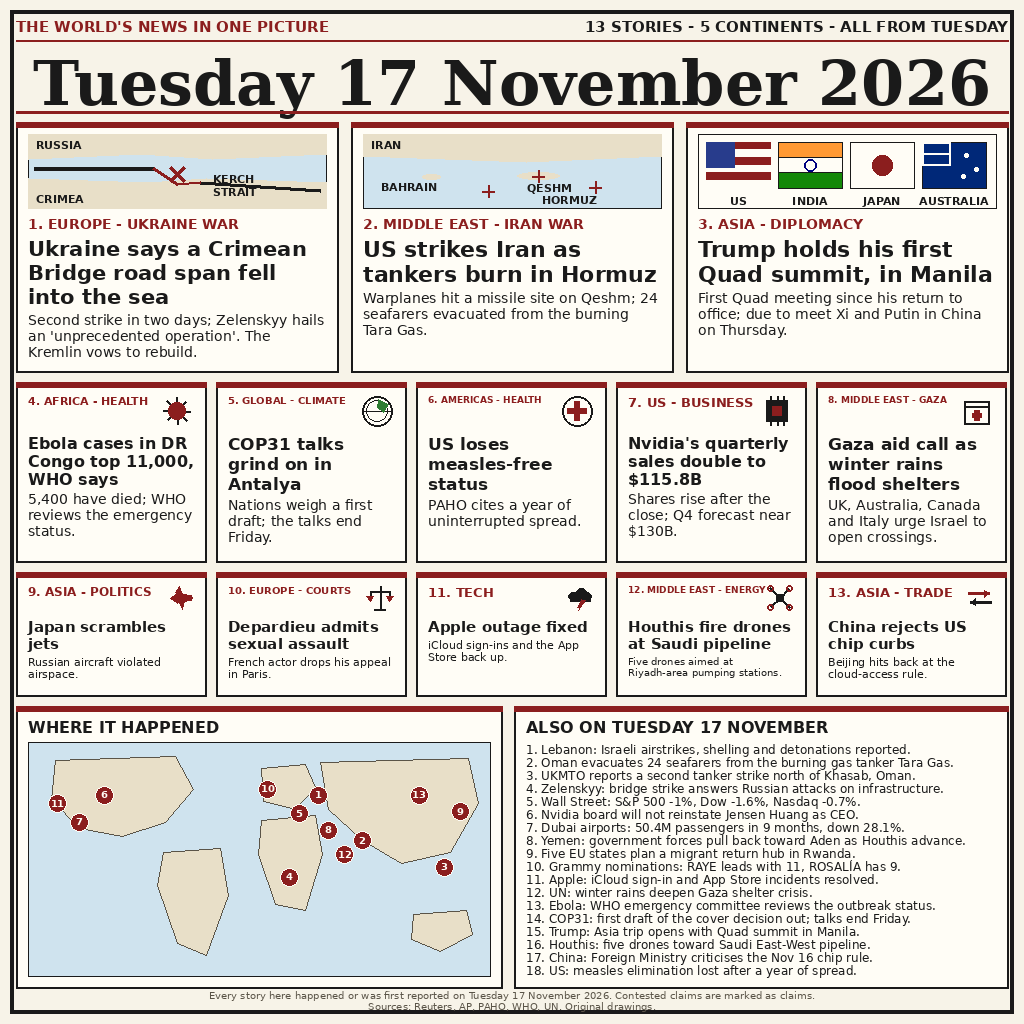
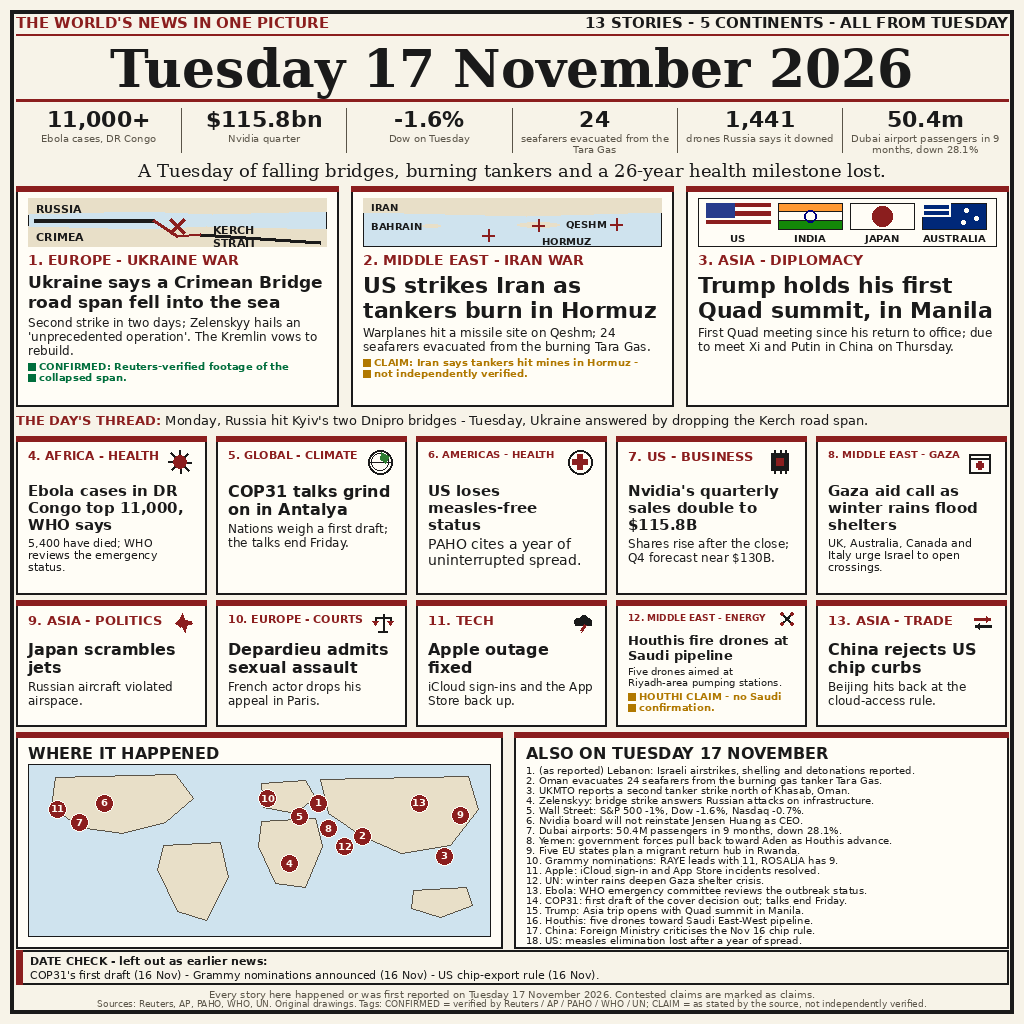
news-image-20261117 v3: verification layer - BY THE NUMBERS, WHY line, THREAD, CONFIRMED/CLAIM tags, DATE CHECK

diff --git a/make_image.py b/make_image.py
@@ -1,10 +1,15 @@
-"""Draw the dense v2 front page for news-image-20261117 (1024x1024 PNG).
+"""Draw the dense v3 front page for news-image-20261117 (1024x1024 PNG).
 
-Newspaper style: off-white paper, ink text, dark-red accent. 13 numbered
-stories plus a world map with pins and a list of one-liners, all from
-Tuesday 17 November 2026 as reported by Reuters, AP, PAHO, WHO and the UN.
-Every map, flag and icon is drawn with PIL shapes; no network, no external
-images. Text is never clipped: every block shrinks its font until it fits.
+v3 = v2 (13 numbered stories, world map with pins, 18 one-liners) plus a
+verification layer: a BY THE NUMBERS strip, a WHY THIS DAY MATTERS line,
+a THE DAY'S THREAD line, CONFIRMED / CLAIM tags on contested items, and a
+DATE CHECK box for items that belong to 16 November, not this day.
+
+Newspaper style: off-white paper, ink text, dark-red accent. All stories
+from Tuesday 17 November 2026 as reported by Reuters, AP, PAHO, WHO and
+the UN. Every map, flag and icon is drawn with PIL shapes; no network, no
+external images. Text is never clipped: every block shrinks its font
+until it fits.
 """
 
 from PIL import Image, ImageDraw, ImageFont
@@ -17,9 +22,12 @@ RED = (139, 30, 30)
 GREY = (90, 84, 72)
 SEA = (207, 227, 238)
 LAND = (232, 223, 200)
+TAG_GREEN = (0, 110, 60)
+TAG_AMBER = (176, 120, 0)
 
 FONT_DIR = "/usr/share/fonts/truetype/dejavu/"
 SERIF_B = FONT_DIR + "DejaVuSerif-Bold.ttf"
+SERIF = FONT_DIR + "DejaVuSerif.ttf"
 SANS_B = FONT_DIR + "DejaVuSans-Bold.ttf"
 SANS = FONT_DIR + "DejaVuSans.ttf"
 
@@ -230,21 +238,23 @@ def map_gulf(d, x, y, w, h):
               fill=LAND)
     d.ellipse([x + w * 0.2, y + h * 0.55, x + w * 0.26, y + h * 0.61],
               fill=LAND)
-    for sx, sy in ((0.59, 0.57), (0.42, 0.78), (0.78, 0.72)):
+    for sx, sy in ((0.59, 0.57), (0.42, 0.78), (0.85, 0.55)):
         cx, cy = x + w * sx, y + h * sy
         d.line([(cx - 6, cy), (cx + 6, cy)], fill=RED, width=2)
         d.line([(cx, cy - 6), (cx, cy + 6)], fill=RED, width=2)
-    f = fb(SANS_B, 11)
-    d.text((x + 8, y + 4), "IRAN", font=f, fill=INK)
-    d.text((x + w * 0.55, y + h * 0.64), "QESHM", font=f, fill=INK)
-    d.text((x + w * 0.06, y + h * 0.62), "BAHRAIN", font=f, fill=INK)
-    d.text((x + w * 0.6, y + h * 0.8), "HORMUZ", font=f, fill=INK)
+    f = fb(SANS_B, 10)
+    d.text((x + 8, y + 3), "IRAN", font=f, fill=INK)
+    d.text((x + 8, y + h * 0.45), "BAHRAIN", font=f, fill=INK)
+    # QESHM right of its island, HORMUZ bottom centre: the two labels
+    # must not stack on each other at this small map height.
+    d.text((x + w * 0.68, y + h * 0.42), "QESHM", font=f, fill=INK)
+    d.text((x + w * 0.60, y + h * 0.78), "HORMUZ", font=f, fill=INK)
 
 
 def map_quad(d, x, y, w, h):
     d.rectangle([x, y, x + w, y + h], fill=CARD, outline=INK, width=1)
-    fw, fh = (w - 40) // 4, 46
-    fy = y + 8
+    fw, fh = (w - 40) // 4, max(20, h - 22)
+    fy = y + 5
     xs = [x + 8 + i * (fw + 8) for i in range(4)]
     # US: stripes + canton
     d.rectangle([xs[0], fy, xs[0] + fw, fy + fh], outline=INK, width=1)
@@ -276,9 +286,9 @@ def map_quad(d, x, y, w, h):
     for sx, sy in ((0.7, 0.3), (0.85, 0.6), (0.65, 0.75)):
         d.ellipse([xs[3] + fw * sx - 2, fy + fh * sy - 2,
                    xs[3] + fw * sx + 2, fy + fh * sy + 2], fill=CARD)
-    f = fb(SANS_B, 11)
+    f = fb(SANS_B, 10)
     for i, name in enumerate(("US", "INDIA", "JAPAN", "AUSTRALIA")):
-        text_center(d, xs[i] + fw / 2, fy + fh + 6, name, f, INK)
+        text_center(d, xs[i] + fw / 2, fy + fh + 3, name, f, INK)
 
 
 # ---- schematic world map with numbered pins ----
@@ -360,8 +370,34 @@ SMALL = [
      "Beijing hits back at the cloud-access rule.", icon_trade),
 ]
 
+NUMBERS = [
+    ("11,000+", "Ebola cases, DR Congo"),
+    ("$115.8bn", "Nvidia quarter"),
+    ("-1.6%", "Dow on Tuesday"),
+    ("24", "seafarers evacuated from the Tara Gas"),
+    ("1,441", "drones Russia says it downed"),
+    ("50.4m", "Dubai airport passengers in 9 months, down 28.1%"),
+]
+
+WHY_TEXT = ("A Tuesday of falling bridges, burning tankers and a 26-year "
+            "health milestone lost.")
+
+THREAD_TEXT = ("Monday, Russia hit Kyiv's two Dnipro bridges - Tuesday, "
+               "Ukraine answered by dropping the Kerch road span.")
+
+DATECHECK_TITLE = "DATE CHECK - left out as earlier news:"
+DATECHECK_ITEMS = ("COP31's first draft (16 Nov) - Grammy nominations "
+                   "announced (16 Nov) - US chip-export rule (16 Nov).")
+
+TAG_KERCH = ("CONFIRMED: Reuters-verified footage of the collapsed span.",
+             TAG_GREEN)
+TAG_IRAN = ("CLAIM: Iran says tankers hit mines in Hormuz - not "
+            "independently verified.", TAG_AMBER)
+TAG_HOUTHI = ("HOUTHI CLAIM - no Saudi confirmation.", TAG_AMBER)
+
 ONE_LINERS = [
-    "Lebanon: Israeli airstrikes, shelling and detonations reported.",
+    "(as reported) Lebanon: Israeli airstrikes, shelling and detonations "
+    "reported.",
     "Oman evacuates 24 seafarers from the burning gas tanker Tara Gas.",
     "UKMTO reports a second tanker strike north of Khasab, Oman.",
     "Zelenskyy: bridge strike answers Russian attacks on infrastructure.",
@@ -382,32 +418,47 @@ ONE_LINERS = [
 ]
 
 
-def draw_big_panel(d, x, y, w, h, num, cat, headline, sub, kind):
+def draw_tag(d, x, y, max_w, text, color, start=10):
+    """Small verification tag: coloured square + bold text, wrapped."""
+    font, lines, lh = fit_block(d, text, SANS_B, start, 8, max_w - 12,
+                                2, 22)
+    yy = y
+    for ln in lines:
+        d.rectangle([x, yy + 3, x + 7, yy + 10], fill=color)
+        d.text((x + 11, yy), ln, font=font, fill=color)
+        yy += lh
+    return yy
+
+
+def draw_big_panel(d, x, y, w, h, num, cat, headline, sub, kind, tag=None):
     ix, iy, iw, ih = panel(d, x, y, w, h)
-    map_h = 74
+    map_h = 48
     if kind == "kerch":
         map_kerch(d, ix, iy, iw, map_h)
     elif kind == "gulf":
         map_gulf(d, ix, iy, iw, map_h)
     else:
         map_quad(d, ix, iy, iw, map_h)
-    ty = iy + map_h + 8
+    ty = iy + map_h + 6
     d.text((ix, ty), f"{num}. {cat}", font=fb(SANS_B, 14), fill=RED)
     hy = ty + 20
-    font, lines, lh = fit_block(d, headline, SANS_B, 23, 17, iw, 3, 72)
+    font, lines, lh = fit_block(d, headline, SANS_B, 23, 16, iw, 3, 54)
     for ln in lines:
         d.text((ix, hy), ln, font=font, fill=INK)
         hy += lh
-    font2, lines2, lh2 = fit_block(d, sub, SANS, 15, 12, iw, 3, 48)
-    sy = hy + 4
+    font2, lines2, lh2 = fit_block(d, sub, SANS, 15, 12, iw, 3, 42)
+    sy = hy + 3
     for ln in lines2:
         d.text((ix, sy), ln, font=font2, fill=INK)
         sy += lh2
+    if tag is not None:
+        draw_tag(d, ix, sy + 3, iw, tag[0], tag[1])
 
 
 def draw_small_panel(d, x, y, w, h, num, cat, headline, sub, icon,
                      head_start, head_min, head_lines, sub_start, sub_min,
-                     sub_lines, icon_s):
+                     sub_lines, icon_s, head_max, sub_max, tag=None,
+                     tag_max=0):
     ix, iy, iw, ih = panel(d, x, y, w, h)
     icon(d, ix + iw - icon_s, iy, icon_s)
     cat_text = f"{num}. {cat}"
@@ -418,9 +469,6 @@ def draw_small_panel(d, x, y, w, h, num, cat, headline, sub, icon,
     d.text((ix, iy), cat_text, font=fb(SANS_B, cat_size), fill=RED)
     # Headline starts below the icon so no text ever runs under it.
     hy = iy + icon_s + 6
-    avail = (iy + ih) - hy - 3
-    head_max = avail * 55 // 100
-    sub_max = avail - head_max - 3
     font, lines, lh = fit_block(d, headline, SANS_B, head_start, head_min,
                                 iw, head_lines, head_max)
     for ln in lines:
@@ -432,6 +480,8 @@ def draw_small_panel(d, x, y, w, h, num, cat, headline, sub, icon,
     for ln in lines2:
         d.text((ix, sy), ln, font=font2, fill=INK)
         sy += lh2
+    if tag is not None:
+        draw_tag(d, ix, sy + 3, iw, tag[0], tag[1])
 
 
 def main():
@@ -440,74 +490,116 @@ def main():
     d.rectangle([10, 10, W - 11, H - 11], outline=INK, width=4)
 
     # Top kicker.
-    d.text((16, 18), "THE WORLD'S NEWS IN ONE PICTURE",
+    d.text((16, 14), "THE WORLD'S NEWS IN ONE PICTURE",
            font=fb(SANS_B, 15), fill=RED)
     right = "13 STORIES - 5 CONTINENTS - ALL FROM TUESDAY"
     rw = d.textlength(right, font=fb(SANS_B, 15))
-    d.text((1008 - rw, 18), right, font=fb(SANS_B, 15), fill=INK)
-    d.line([(16, 40), (1008, 40)], fill=RED, width=2)
+    d.text((1008 - rw, 14), right, font=fb(SANS_B, 15), fill=INK)
+    d.line([(16, 34), (1008, 34)], fill=RED, width=2)
 
-    # Banner, serif bold, as large as fits.
-    size = 64
+    # Banner, serif bold, as large as fits, with room below the descenders
+    # so the tail of the "y" in "Tuesday" clears the rule underneath.
+    size = 52
     while (d.textlength("Tuesday 17 November 2026", font=fb(SERIF_B, size))
            > 980 and size > 40):
         size -= 2
-    text_center(d, W // 2, 46, "Tuesday 17 November 2026",
+    text_center(d, W // 2, 38, "Tuesday 17 November 2026",
                 fb(SERIF_B, size), INK)
-    d.line([(16, 112), (1008, 112)], fill=RED, width=3)
+    d.line([(16, 100), (1008, 100)], fill=RED, width=3)
 
-    # Row 1: three big panels.
+    # 1. BY THE NUMBERS strip.
+    cell_w = (1008 - 16) / 6
+    for i, (num, label) in enumerate(NUMBERS):
+        cx = 16 + i * cell_w
+        text_center(d, cx + cell_w / 2, 106, num, fb(SANS_B, 22), INK)
+        font, lines, lh = fit_block(d, label, SANS, 10, 9,
+                                    cell_w - 12, 2, 24)
+        ly2 = 132
+        for ln in lines:
+            text_center(d, cx + cell_w / 2, ly2, ln, font, GREY)
+            ly2 += lh
+        if i:
+            d.line([(cx, 108), (cx, 152)], fill=GREY, width=1)
+
+    # 2. WHY THIS DAY MATTERS line (serif; no italic serif on this VM,
+    # so regular serif, centred).
+    text_center(d, W // 2, 160, WHY_TEXT, fb(SERIF, 18), INK)
+
+    # Row 1: three big panels (tags on panels 1 and 2).
+    big_tags = [TAG_KERCH, TAG_IRAN, None]
     for i, (cat, head, sub, kind) in enumerate(BIG):
-        draw_big_panel(d, 16 + i * 335, 122, 322, 250, i + 1, cat, head,
-                       sub, kind)
+        draw_big_panel(d, 16 + i * 335, 186, 322, 220, i + 1, cat, head,
+                       sub, kind, tag=big_tags[i])
+
+    # 3. THE DAY'S THREAD line.
+    label = "THE DAY'S THREAD: "
+    lw = d.textlength(label, font=fb(SANS_B, 13))
+    d.text((16, 412), label, font=fb(SANS_B, 13), fill=RED)
+    d.text((16 + lw, 412), THREAD_TEXT, font=fb(SANS, 13), fill=INK)
 
     # Row 2: five medium panels.
     for i, (cat, head, sub, icon) in enumerate(MEDIUM):
-        draw_small_panel(d, 16 + i * 200, 382, 190, 180, i + 4, cat, head,
-                         sub, icon, 18, 14, 3, 14, 11, 3, 34)
+        draw_small_panel(d, 16 + i * 200, 436, 190, 158, i + 4, cat, head,
+                         sub, icon, 18, 14, 3, 14, 11, 3, 28, 53, 41)
 
-    # Row 3: five small panels.
+    # Row 3: five small panels (tag on panel 12).
     for i, (cat, head, sub, icon) in enumerate(SMALL):
-        draw_small_panel(d, 16 + i * 200, 572, 190, 124, i + 9, cat, head,
-                         sub, icon, 16, 13, 2, 13, 11, 2, 28)
+        num = i + 9
+        if num == 12:
+            draw_small_panel(d, 16 + i * 200, 600, 190, 126, num, cat,
+                             head, sub, icon, 16, 12, 2, 13, 10, 2, 14,
+                             30, 22, tag=TAG_HOUTHI, tag_max=20)
+        else:
+            draw_small_panel(d, 16 + i * 200, 600, 190, 126, num, cat,
+                             head, sub, icon, 16, 13, 2, 13, 11, 2, 22,
+                             39, 29)
 
     # Bottom left: world map with numbered pins.
-    mx, my, mw, mh = 16, 706, 486, 282
+    mx, my, mw, mh = 16, 732, 486, 216
     d.rectangle([mx, my, mx + mw, my + mh], fill=CARD, outline=INK, width=2)
     d.rectangle([mx, my, mx + mw, my + 5], fill=RED)
     section_title(d, mx + 12, my + 12, "WHERE IT HAPPENED")
-    draw_world_map(d, mx + 12, my + 36, mw - 24, mh - 48)
+    draw_world_map(d, mx + 12, my + 32, mw - 24, mh - 44)
 
     # Bottom right: numbered one-liners.
-    lx, ly, lw, lh = 514, 706, 494, 282
+    lx, ly, lw, lh = 514, 732, 494, 216
     d.rectangle([lx, ly, lx + lw, ly + lh], fill=CARD, outline=INK, width=2)
     d.rectangle([lx, ly, lx + lw, ly + 5], fill=RED)
     section_title(d, lx + 12, ly + 12, "ALSO ON TUESDAY 17 NOVEMBER")
-    list_top, list_h = ly + 36, lh - 48
-    size = 13
-    while size >= 10:
+    list_top, list_h = ly + 32, lh - 36
+    size = 11
+    while size >= 9:
         font = fb(SANS, size)
-        lh_px = int(size * 1.12)
+        lh_px = int(size * 1.05)
         if (len(ONE_LINERS) * lh_px <= list_h and all(
                 d.textlength(f"{i + 1}. {t}", font=font) <= lw - 24
                 for i, t in enumerate(ONE_LINERS))):
             break
         size -= 1
     font = fb(SANS, size)
-    lh_px = int(size * 1.12)
+    lh_px = int(size * 1.05)
     yy = list_top
     for i, t in enumerate(ONE_LINERS):
         d.text((lx + 12, yy), f"{i + 1}. {t}", font=font, fill=INK)
         yy += lh_px
 
-    # Footer (10 px, clear of the bottom border at y=1011).
-    text_center(d, W // 2, 989,
+    # 5. DATE CHECK box.
+    d.rectangle([16, 950, 1008, 984], outline=INK, width=2)
+    d.rectangle([16, 950, 22, 984], fill=RED)
+    d.text((30, 954), DATECHECK_TITLE, font=fb(SANS_B, 11), fill=INK)
+    d.text((30, 968), DATECHECK_ITEMS, font=fb(SANS, 11), fill=INK)
+
+    # Footer (with the tag legend on the second line).
+    text_center(d, W // 2, 988,
                 "Every story here happened or was first reported on Tuesday "
                 "17 November 2026. Contested claims are marked as claims.",
                 fb(SANS, 10), GREY)
-    text_center(d, W // 2, 1000,
-                "Sources: Reuters, AP, PAHO, WHO, UN. Original drawings.",
-                fb(SANS, 10), GREY)
+    text_center(d, W // 2, 998,
+                "Sources: Reuters, AP, PAHO, WHO, UN. Original drawings. "
+                "Tags: CONFIRMED = verified by Reuters / AP / PAHO / WHO / "
+                "UN; CLAIM = as stated by the source, not independently "
+                "verified.",
+                fb(SANS, 9), GREY)
 
     img.save(OUT, optimize=True)
     print("saved", OUT)
